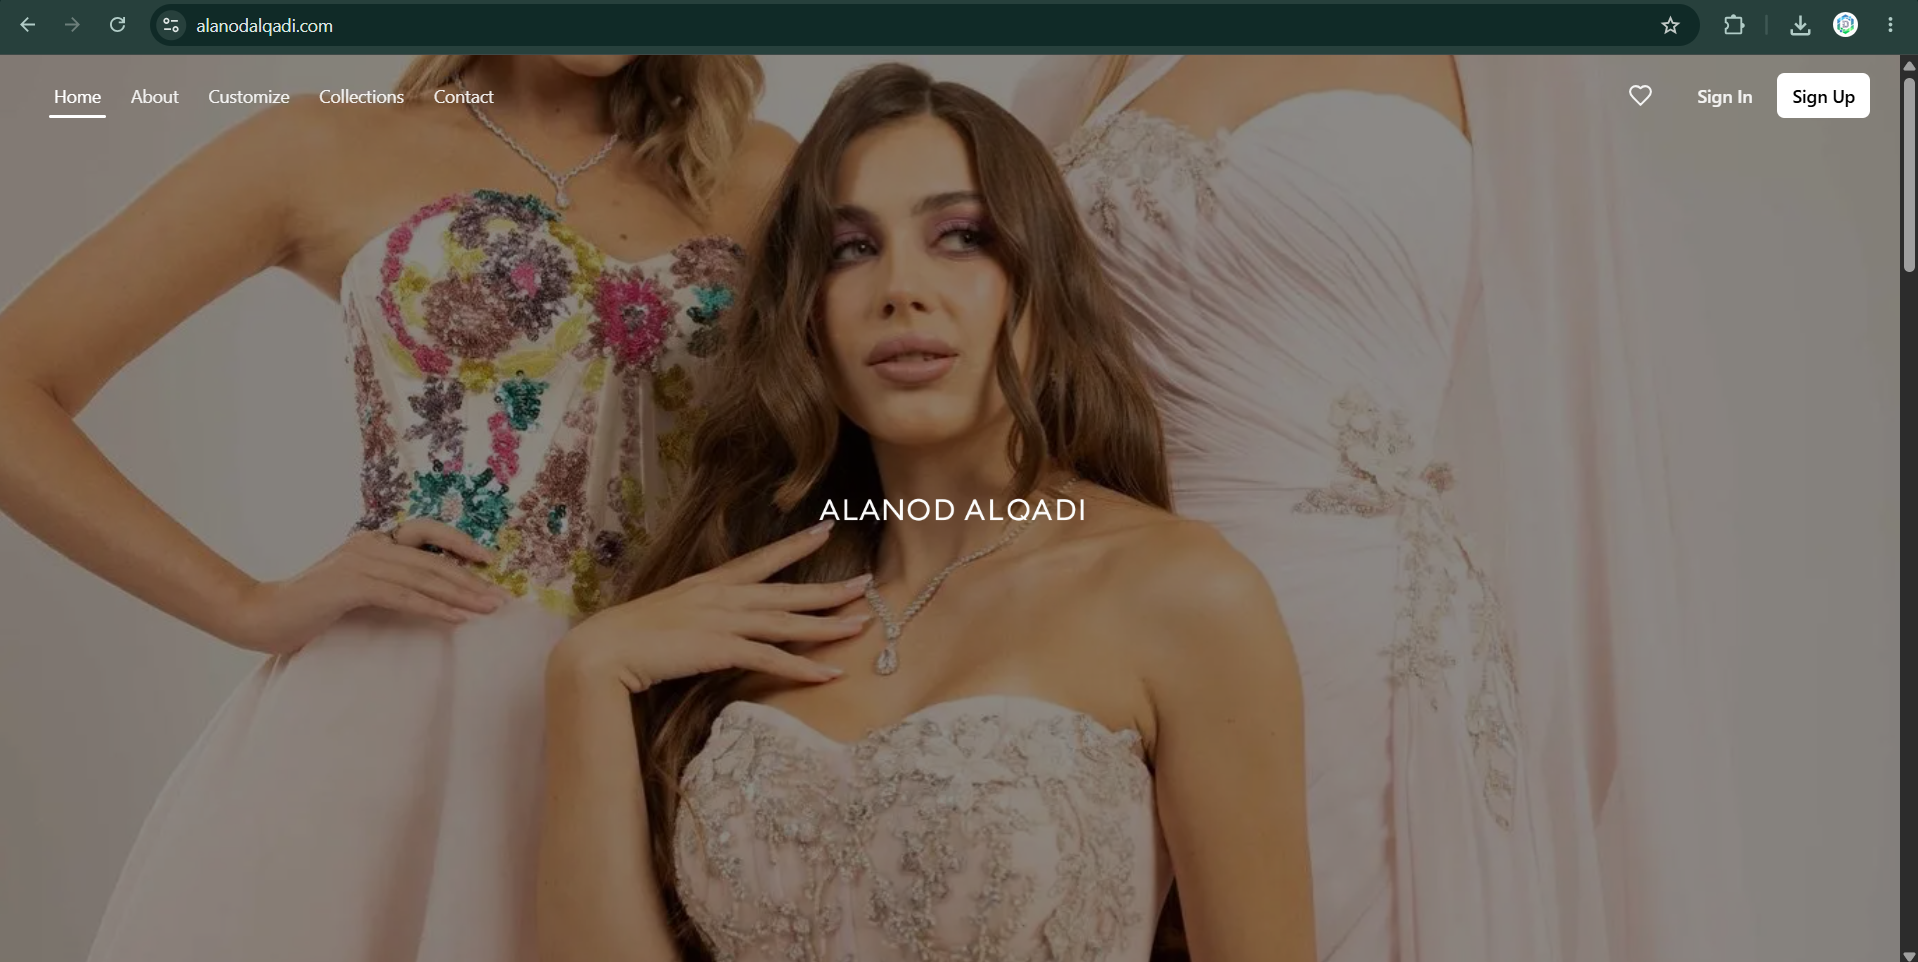
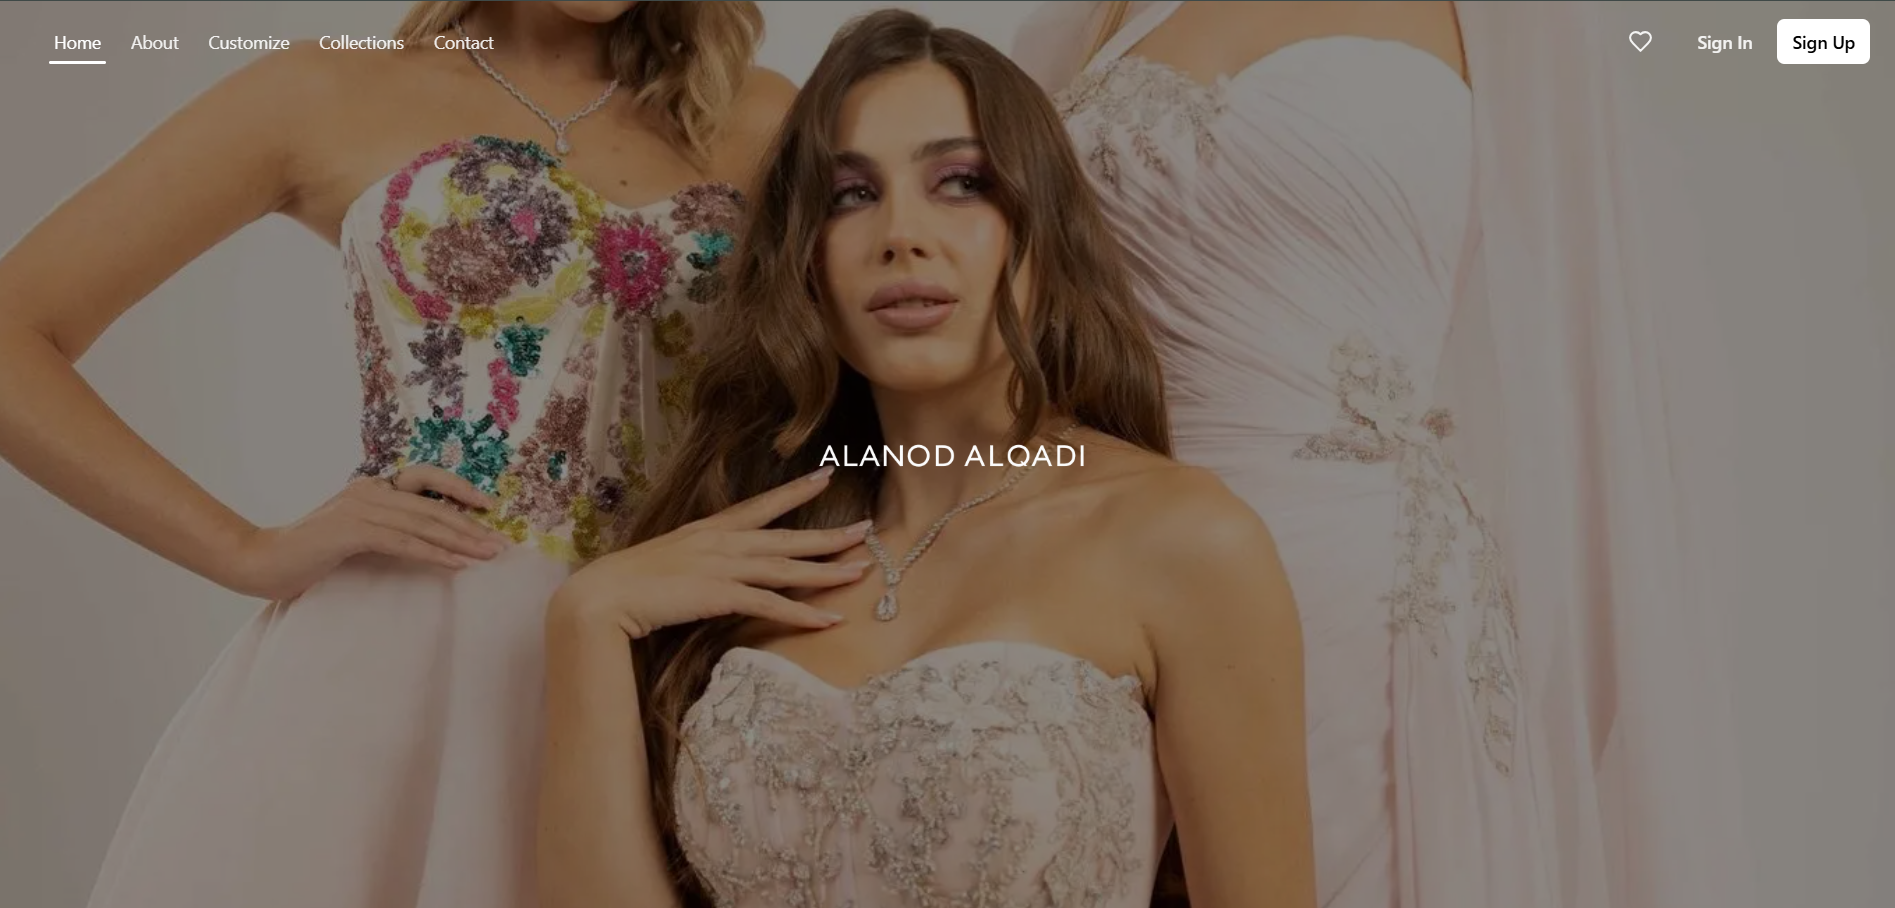
first commit

diff --git a/app/layout.tsx b/app/layout.tsx
@@ -34,6 +34,34 @@ export const metadata: Metadata = {
     "Digitiva Studio blends strategy, emergent AI, and interface craft to launch timeless digital experiences — e-commerce, ERP, UI/UX, and custom invitations.",
   keywords:
     "digitiva, web development, ecommerce, erp systems, ui ux design, digital invitations, saudi arabia",
+  icons: {
+    icon: "/logo-light.png",
+    shortcut: "/logo-light.png",
+    apple: "/logo-light.png",
+  },
+  openGraph: {
+    title: "Digitiva — Where Fresh Ideas Meet Digital Excellence",
+    description:
+      "Digitiva Studio blends strategy, emergent AI, and interface craft to launch timeless digital experiences — e-commerce, ERP, UI/UX, and custom invitations.",
+    url: "https://digitivaa.com",
+    siteName: "Digitiva",
+    images: [
+      {
+        url: "https://digitivaa.com/og-image.jpg",
+        width: 1200,
+        height: 630,
+        alt: "Digitiva Studio",
+      },
+    ],
+    type: "website",
+  },
+  twitter: {
+    card: "summary_large_image",
+    title: "Digitiva — Where Fresh Ideas Meet Digital Excellence",
+    description:
+      "Digitiva Studio blends strategy, emergent AI, and interface craft to launch timeless digital experiences — e-commerce, ERP, UI/UX, and custom invitations.",
+    images: ["https://digitivaa.com/og-image.jpg"],
+  },
 };
 
 export default function RootLayout({
